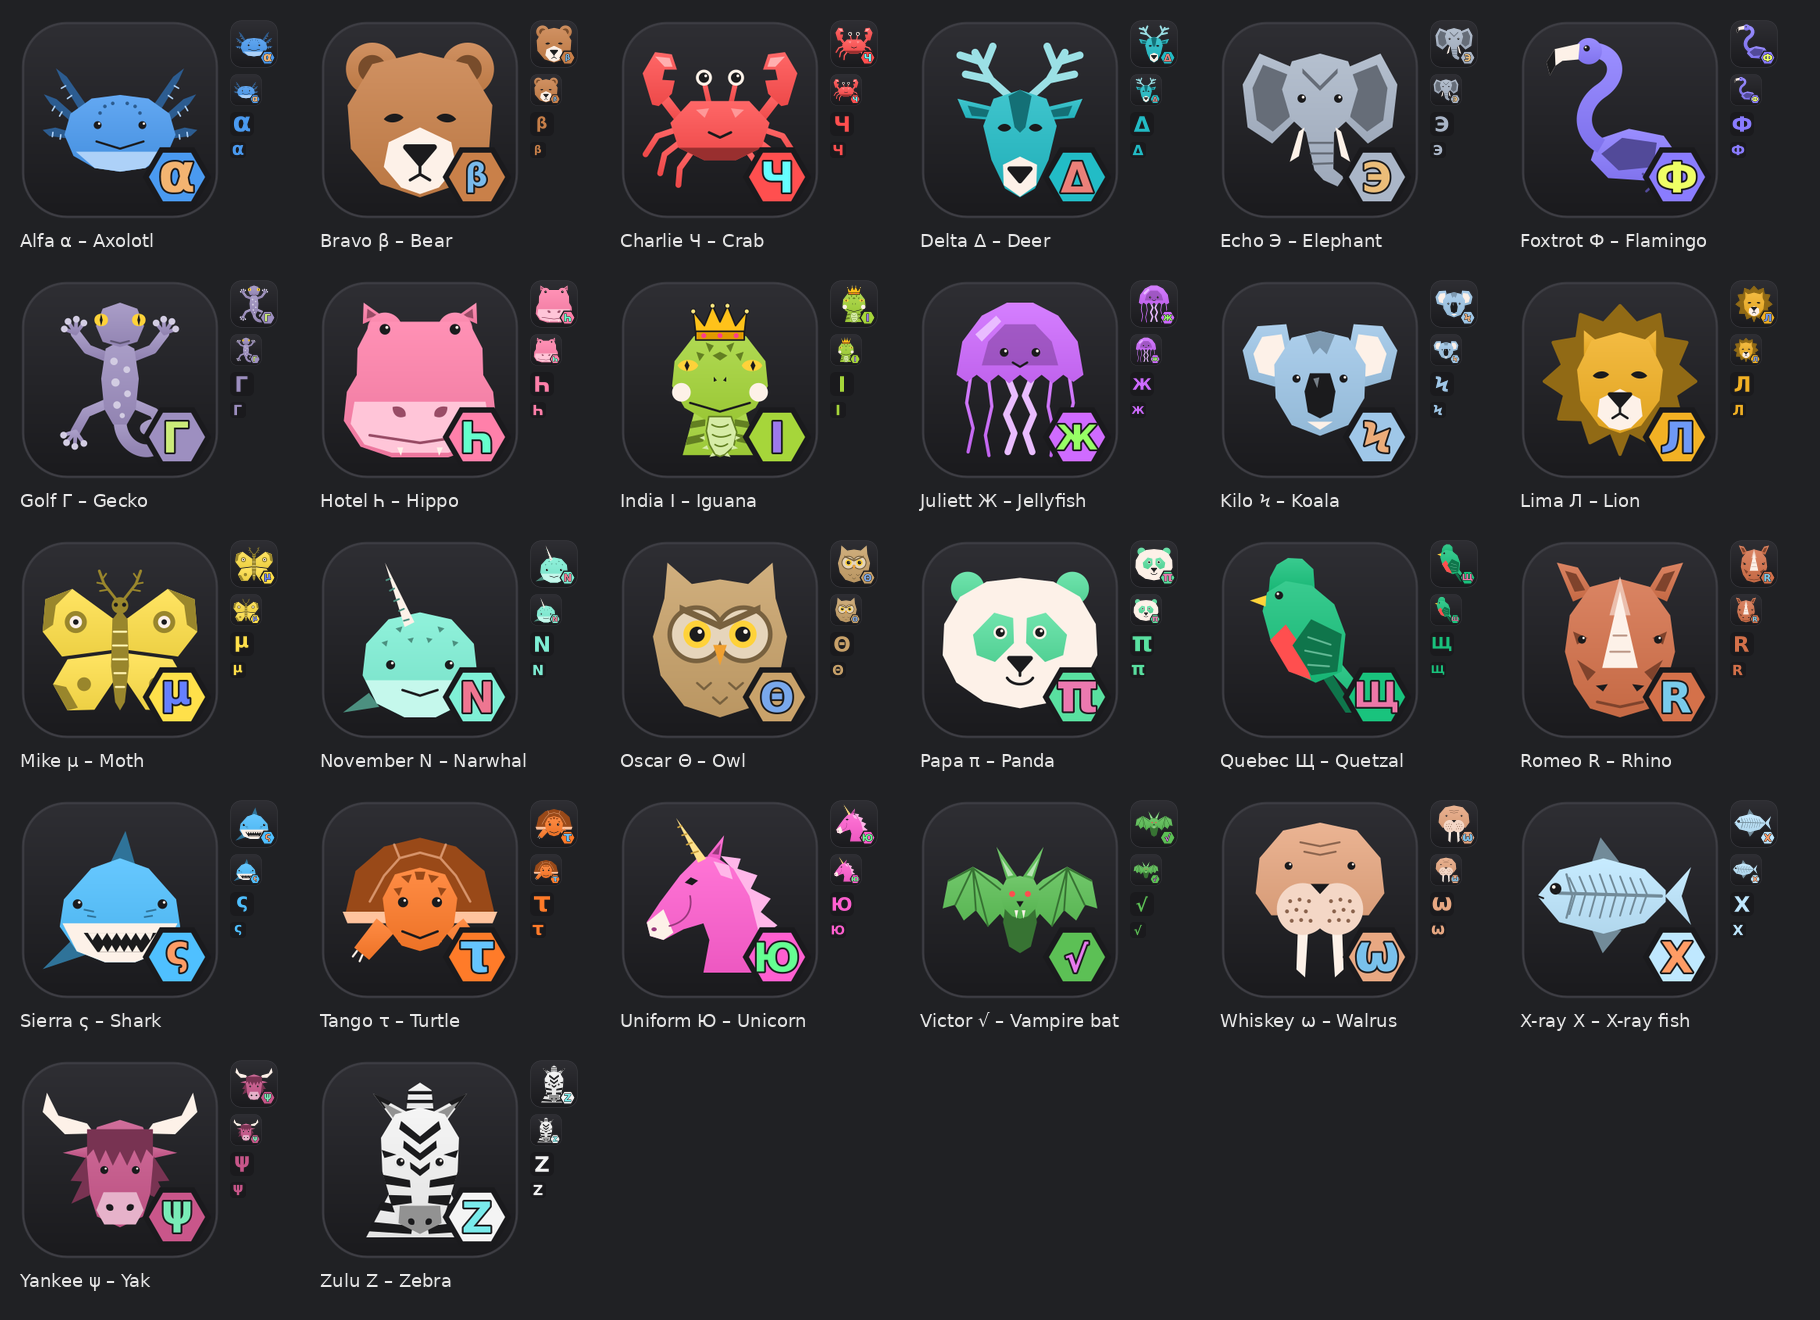
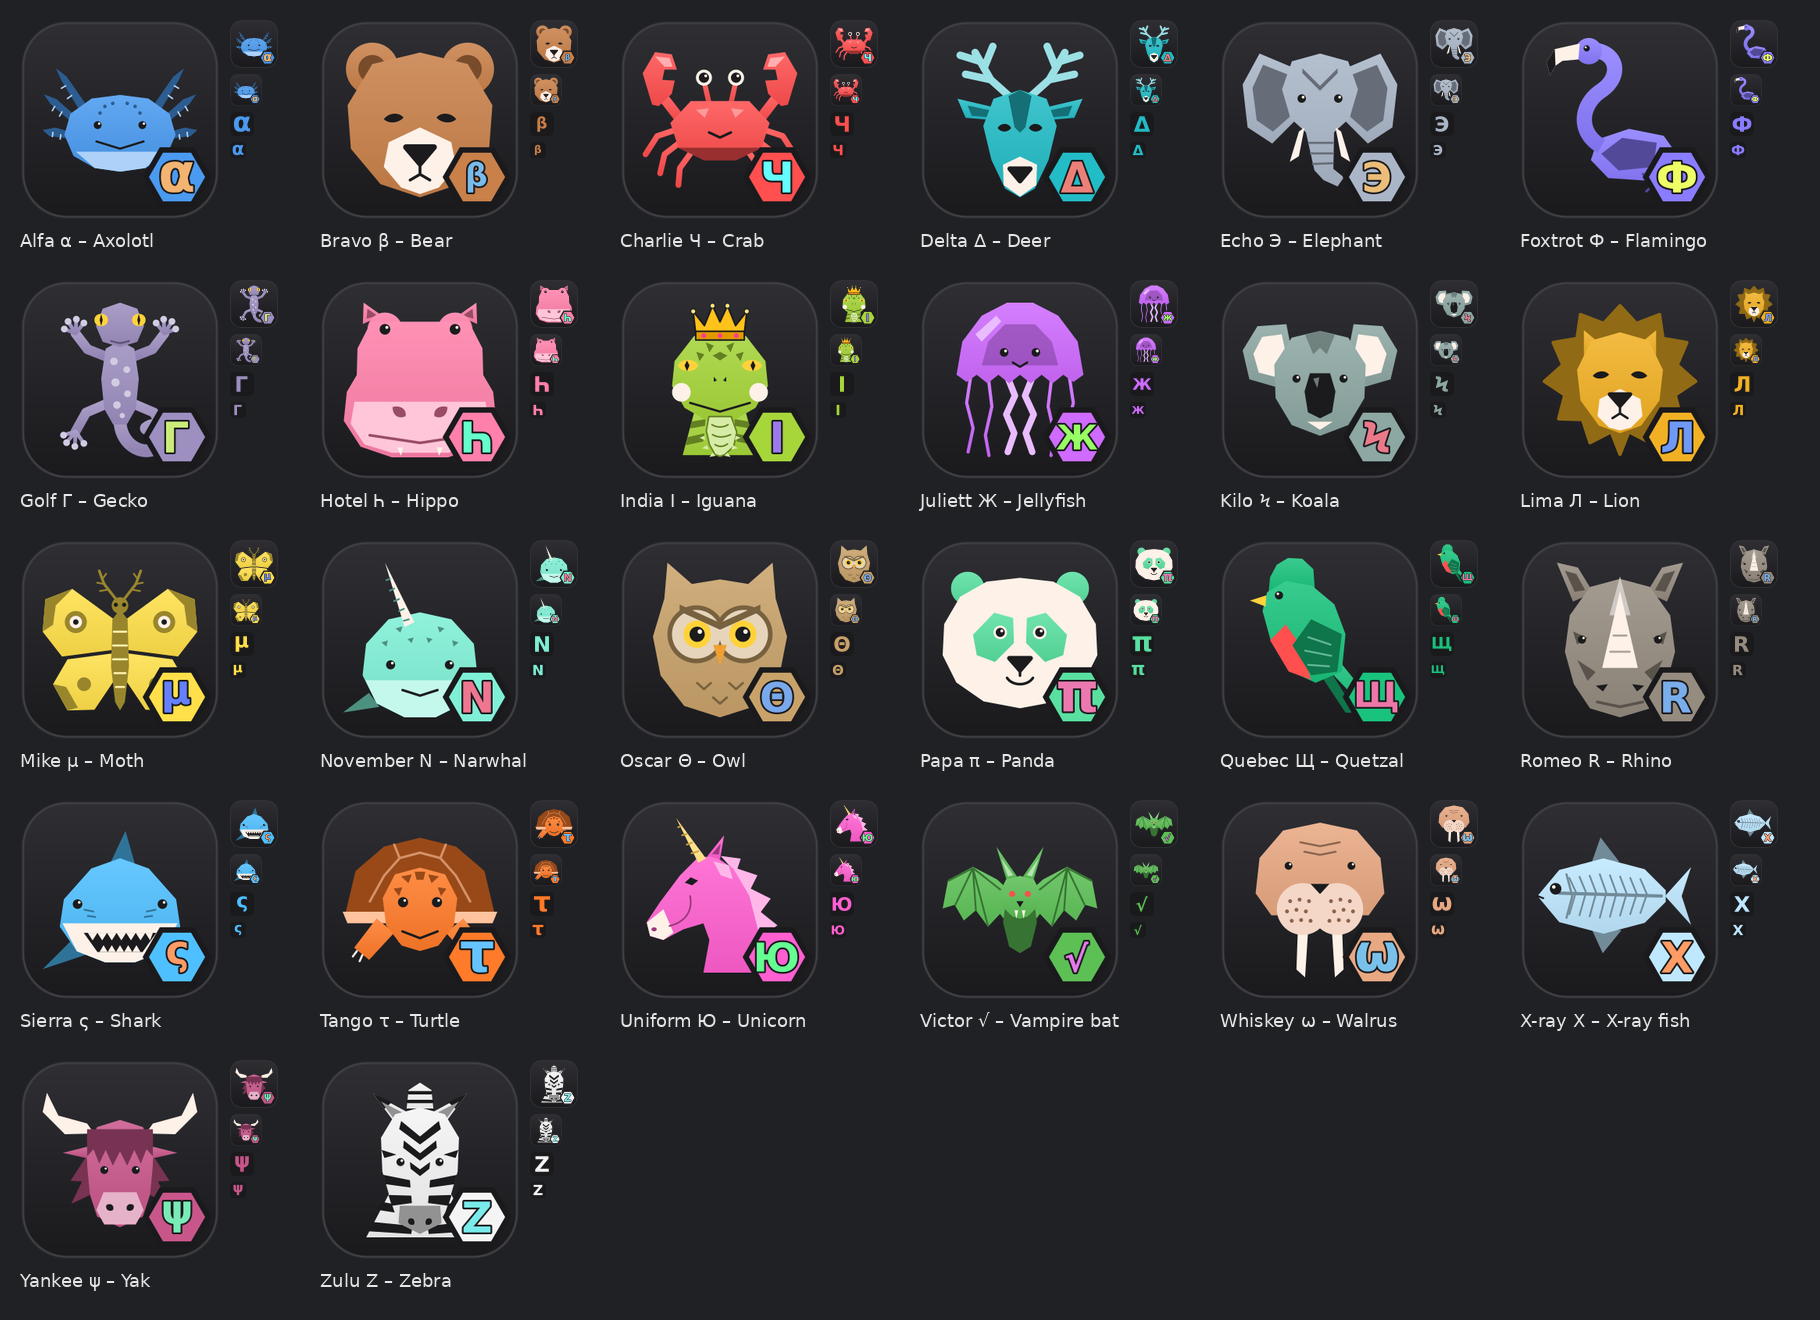
Colours: sage-grey koala, warm-grey rhino
Measured as the eye sees colour (CIEDE2000), Kilo's light blue was
within 8.5-9.5 of X-ray, Echo and Sierra, and Romeo's terracotta was
8.2 from Bravo's caramel (1.0 with red-green colour blindness). Kilo
becomes #8da7a3 and Romeo #958b7f, both natural for the animals; the
nearest colour to either is now 14 or more. CLAUDE.md records why, and
how to measure a colour change.

Changed region(s): [[0.6769, 0.2174, 0.8308, 0.3727], [0.8615, 0.4348, 0.9538, 0.5591], [0.9538, 0.4038, 0.9846, 0.497]]

diff --git a/CLAUDE.md b/CLAUDE.md
@@ -22,10 +22,13 @@ on a taskbar or dock. The set is deliberately app-neutral: don't brand it for an
 
 ## Colours
 Each icon has its own colour in `icons.json`. Before changing one, check its neighbours at small sizes.
-Known near-pairs that were deliberately resolved: hippo is the only bright pink; the rhino is
-terracotta (rose-clay clashed with the hippo); the flamingo is violet, not pink, for the same reason.
-The lion's gold, bear's caramel and turtle's orange sit close together, so keep new warm colours away
-from them. Render a comparison sheet next to the nearest-coloured icons before committing a change.
+Known near-pairs that were deliberately resolved: hippo is the only bright pink; the flamingo is
+violet, not pink, for the same reason. The rhino is warm grey: rose-clay clashed with the hippo, and
+terracotta with the bear's caramel (almost identical with red-green colour blindness). The koala is
+sage-grey: light blue sat too close to X-ray, Echo and Sierra. The lion's gold, bear's caramel and
+turtle's orange sit close together, so keep new warm colours away from them. Measure colour
+closeness as the eye sees it (CIEDE2000), also as seen with deuteranopia, and render a comparison
+sheet next to the nearest-coloured icons before committing a change.
 
 ## Letters
 Chosen for distinctness first. See README "About the letters". Notably Hotel = Һ, Kilo = Ϟ,

diff --git a/README.md b/README.md
@@ -21,14 +21,14 @@ in a hexagon badge, drawn in the animal colour's complement so it stands out on 
 | Hotel | Һ | Hippo | `#ff80aa` |
 | India | I | Iguana | `#a6d63a` |
 | Juliett | Ж | Jellyfish | `#cf6bff` |
-| Kilo | Ϟ | Koala | `#9fc7e8` |
+| Kilo | Ϟ | Koala | `#8da7a3` |
 | Lima | Л | Lion | `#f2b124` |
 | Mike | μ | Moth | `#ffe04a` |
 | November | N | Narwhal | `#7ff0d6` |
 | Oscar | Θ | Owl | `#c9a26a` |
 | Papa | π | Panda | `#59e0a0` |
 | Quebec | Щ | Quetzal | `#19c37d` |
-| Romeo | R | Rhino | `#d4714a` |
+| Romeo | R | Rhino | `#958b7f` |
 | Sierra | ς | Shark | `#4fc0ff` |
 | Tango | τ | Turtle | `#ff7b29` |
 | Uniform | Ю | Unicorn | `#ff5fd0` |
